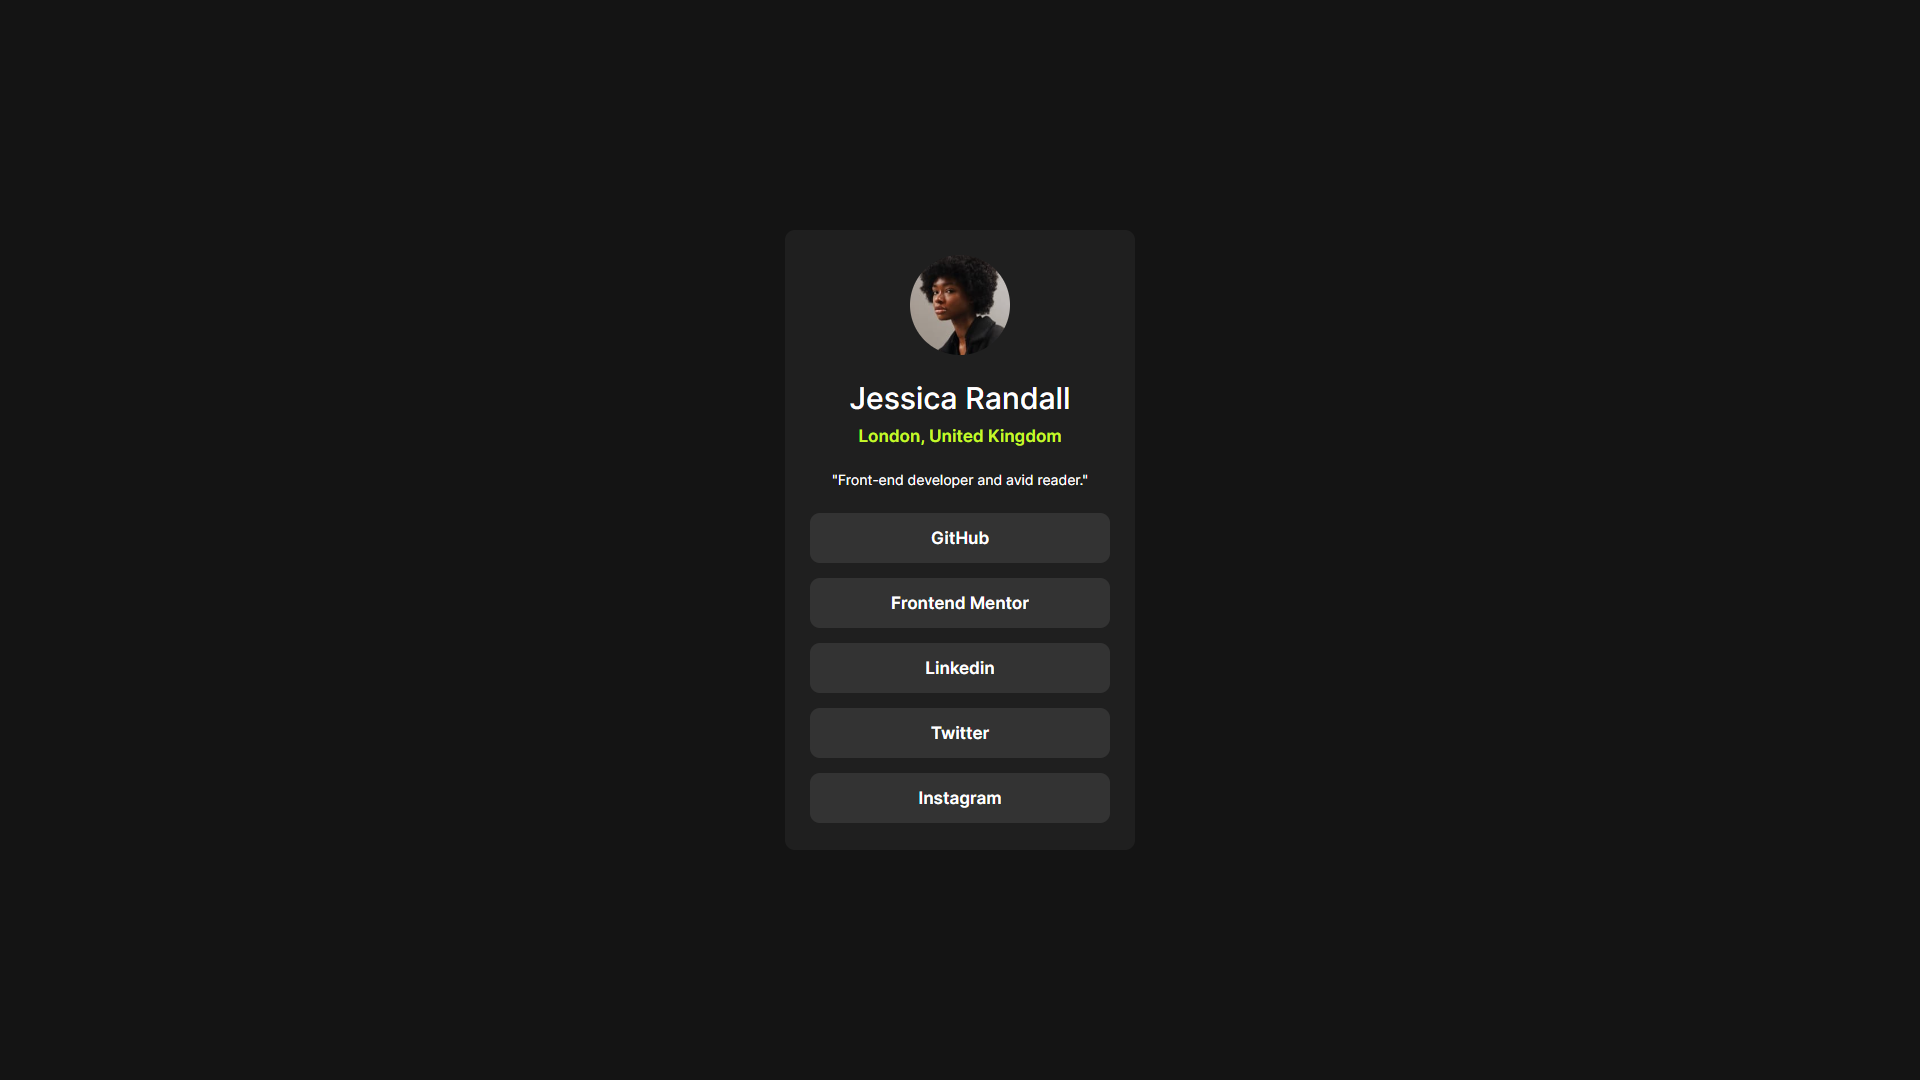
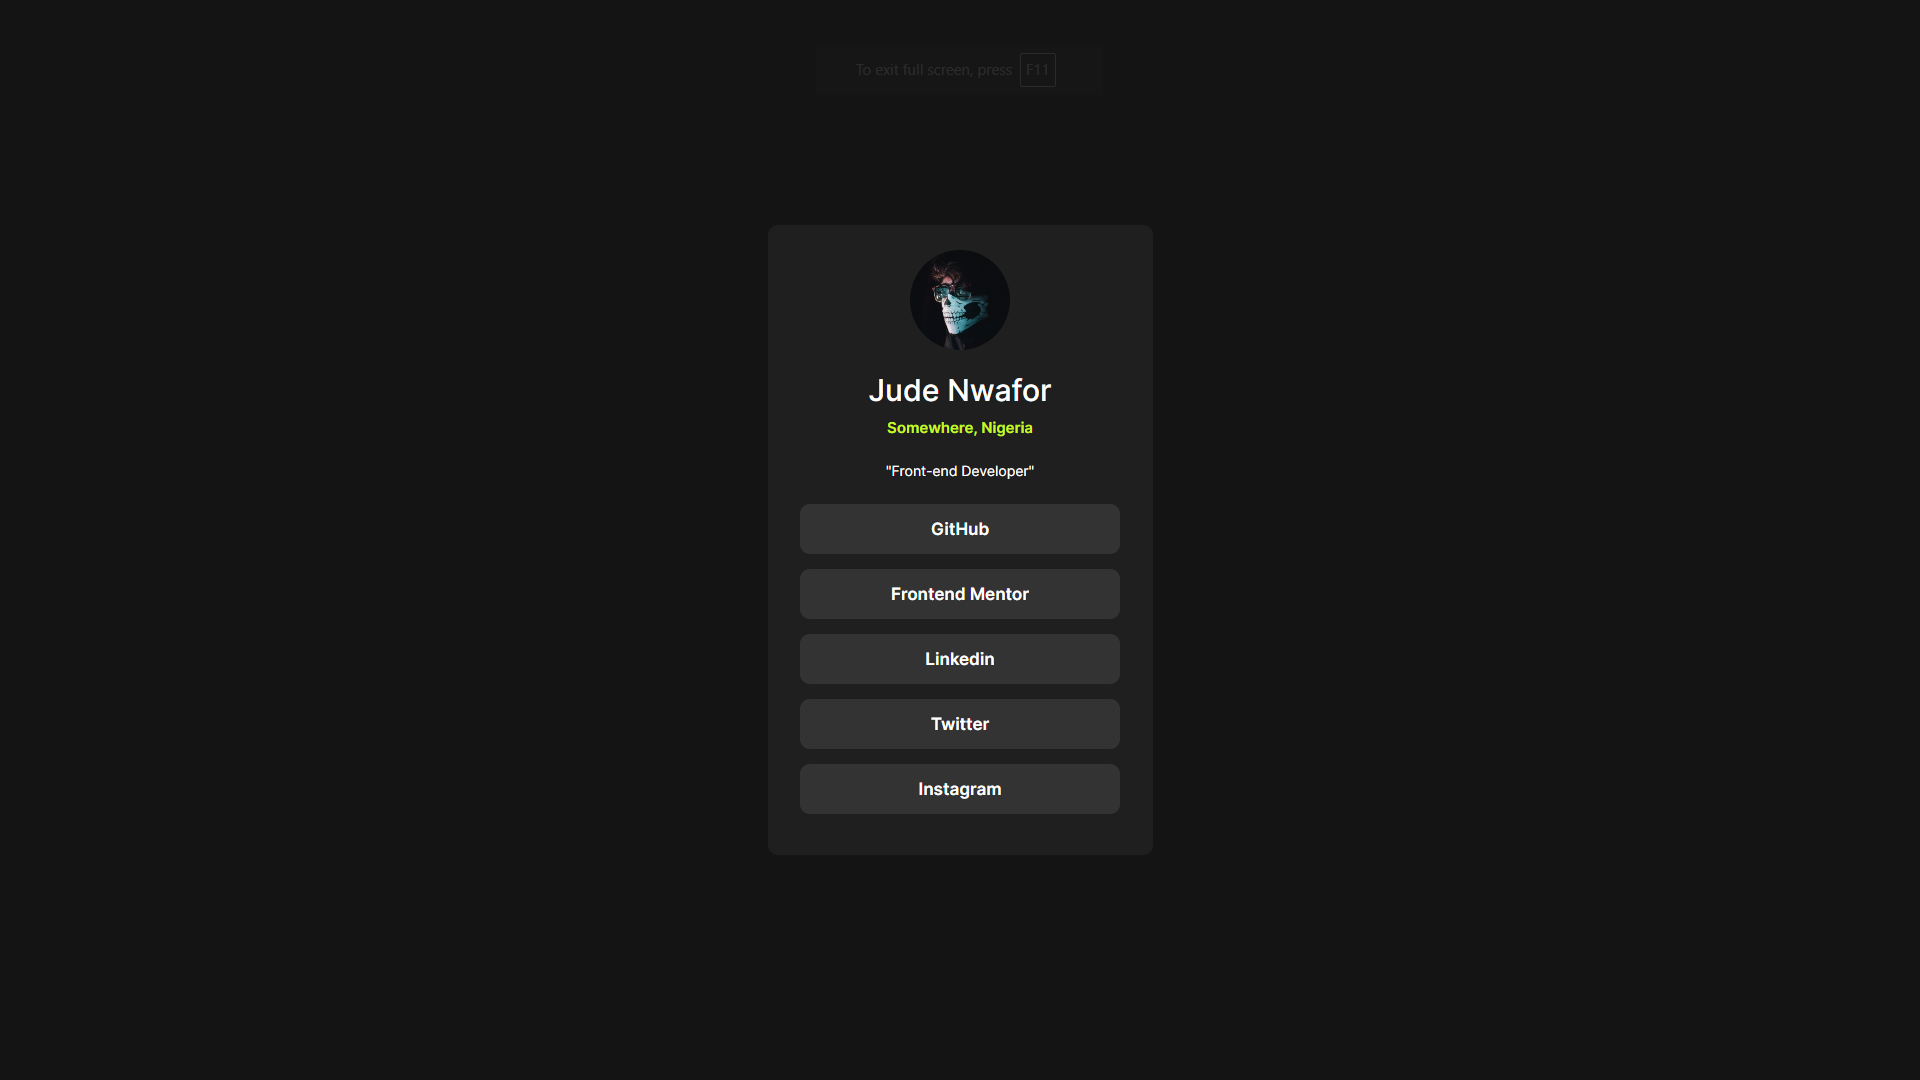
Update README.md with links, replace screenshot, add social links in HTML, update style.css

diff --git a/style.css b/style.css
@@ -1,4 +1,4 @@
-@import url('https://fonts.googleapis.com/css2?family=Inter:wght@100..900&display=swap');
+@import url("https://fonts.googleapis.com/css2?family=Inter:wght@100..900&display=swap");
 
 /* Basic Resets */
 *,
@@ -22,95 +22,97 @@ img {
 
 ol[role="list"],
 ul[role="list"] {
-    list-style-type: none;
+  list-style-type: none;
 }
 
 /* General Styles */
 
 body {
-    font-family: "Inter", sans-serif;
-    min-height: 100vh;
-    background-color: hsl(0, 0%, 8%);
+  font-family: "Inter", sans-serif;
+  min-height: 100vh;
+  background-color: hsl(0, 0%, 8%);
 }
 
 .container {
-    display: flex;
-    justify-content: center;
-    align-items: center;
-    min-height: 100vh;
+  display: flex;
+  justify-content: center;
+  align-items: center;
+  min-height: 100vh;
 }
 
 .profile-card {
-    background-color: hsl(0, 0%, 12%);
-    color: hsl(0, 0%, 100%);
-    height: 620px;
-    width: 350px;
-    border-radius: 10px;
-    display: flex;
-    flex-direction: column;
-    align-items: center;
+  background-color: hsl(0, 0%, 12%);
+  color: hsl(0, 0%, 100%);
+  height: 630px;
+  width: 385px;
+  border-radius: 10px;
+  display: flex;
+  flex-direction: column;
+  align-items: center;
 }
 
 .header-container {
-    margin: 25px;
-    display: flex;
-    flex-direction: column;
-    align-items: center;
+  margin: 25px;
+  display: flex;
+  flex-direction: column;
+  align-items: center;
 }
 
 .profile-pic {
-    height: 100px;
-    width: 100px;
-    background-image: url(/images/avatar-jessica.jpeg);
-    background-size: contain;
-    background-position: center;
-    border-radius: 50%;
+  height: 100px;
+  width: 100px;
+  background-image: url(/images/avatar.JPG);
+  background-size: contain;
+  background-position: center;
+  border-radius: 50%;
 }
 
 .username {
-    margin-top: 25px;
-    font-size: 30px;
-    font-weight: 500;
+  margin-top: 22px;
+  font-size: 30px;
+  font-weight: 500;
 }
 
 .location {
-    font-size: 17px;
-    font-weight: 600;
-    margin-top: 10px;
-    color: hsl(75, 94%, 57%);
+  font-size: 15px;
+  font-weight: 600;
+  margin-top: 10px;
+  color: hsl(75, 94%, 57%);
 }
 
 .skills {
-    margin-top: 25px;
-    font-size: 14px;
-    text-align: center;
+  margin-top: 25px;
+  font-size: 14px;
+  text-align: center;
 }
 
 .links-container .link-list {
-    display: flex;
-    flex-direction: column;
-    align-items: center;
-    margin-inline: 25px;
-    gap: 15px;
+  display: flex;
+  flex-direction: column;
+  align-items: center;
+  margin-inline: 25px;
+  gap: 15px;
 }
 
-.link-list__single {
-    height: 50px;
-    width: 300px;
-    text-align: center;
-    font-size: 17px;
-    background-color: hsl(0, 0%, 20%);
-    display: flex;
-    align-items: center;
-    justify-content: center;
-    font-weight: 600;
-    border-radius: 10px;
+.link-list__single a {
+  height: 50px;
+  width: 320px;
+  text-align: center;
+  font-size: 17px;
+  background-color: hsl(0, 0%, 20%);
+  display: flex;
+  align-items: center;
+  justify-content: center;
+  font-weight: 600;
+  border-radius: 10px;
+  text-decoration: none;
+  color: hsl(0, 0%, 100%);
 }
 
-.link-list__single:hover,
-.link-list__single:focus-visible {
-    background-color: hsl(75, 94%, 57%);
-    color: hsl(0, 0%, 12%);
-    cursor: pointer;
-    transition: all 500ms;
+.link-list__single a:hover,
+.link-list__single a:focus-visible {
+  background-color: hsl(75, 94%, 57%);
+  color: hsl(0, 0%, 12%);
+  cursor: pointer;
+  transition: all 500ms;
 }

diff --git a/index.html b/index.html
@@ -18,17 +18,47 @@
       <section class="profile-card">
         <div class="header-container">
           <div class="profile-pic"></div>
-          <h1 class="username">Jessica Randall</h1>
-          <h3 class="location">London, United Kingdom</h3>
-          <p class="skills">"Front-end developer and avid reader."</p>
+          <h1 class="username">Jude Nwafor</h1>
+          <h3 class="location">Somewhere, Nigeria</h3>
+          <p class="skills">"Front-end Developer"</p>
         </div>
         <div class="links-container">
           <ul class="link-list" role="list">
-            <li class="link-list__single">GitHub</li>
-            <li class="link-list__single">Frontend Mentor</li>
-            <li class="link-list__single">Linkedin</li>
-            <li class="link-list__single">Twitter</li>
-            <li class="link-list__single">Instagram</li>
+            <li class="link-list__single">
+              <a
+                href="https://github.com/MistahJude"
+                aria-label="Visit our Github Profile"
+                >GitHub</a
+              >
+            </li>
+            <li class="link-list__single">
+              <a
+                href="https://www.frontendmentor.io/profile/MistahJude"
+                aria-label="Visit our Frontend Mentor Profile"
+                >Frontend Mentor</a
+              >
+            </li>
+            <li class="link-list__single">
+              <a
+                href="https://www.linkedin.com/in/mistahjude/"
+                aria-label="Visit our Linkedin profile"
+                >Linkedin</a
+              >
+            </li>
+            <li class="link-list__single">
+              <a
+                href="https://x.com/MistahJude"
+                aria-label="Visit our Twitter profile"
+                >Twitter</a
+              >
+            </li>
+            <li class="link-list__single">
+              <a
+                href="https://www.instagram.com/mistahjude"
+                aria-label="Visit our Instagram profile"
+                >Instagram</a
+              >
+            </li>
           </ul>
         </div>
       </section>

diff --git a/README.md b/README.md
@@ -22,12 +22,12 @@ Users should be able to:
 
 ### Screenshot
 
-![Screenshot](./screenshot.png)
+![Screenshot](screenshot.png)
 
 ### Links
 
-- Solution URL: [Add solution URL here](https://your-solution-url.com)
-- Live Site URL: [Add live site URL here](https://your-live-site-url.com)
+- Solution URL: [Solution link](https://www.frontendmentor.io/learning-paths/getting-started-on-frontend-mentor-XJhRWRREZd/steps/666c0b41983369c5332a9e02/challenge/refactor)
+- Live Site URL: [Live link](https://social-links-profile-design-nu.vercel.app/)
 
 ## My process
 
